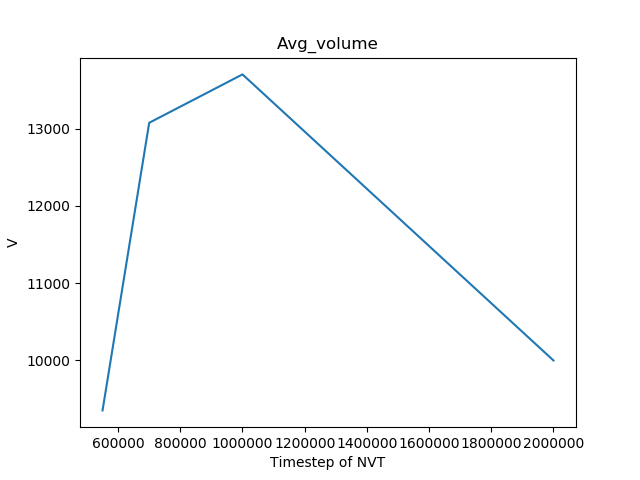
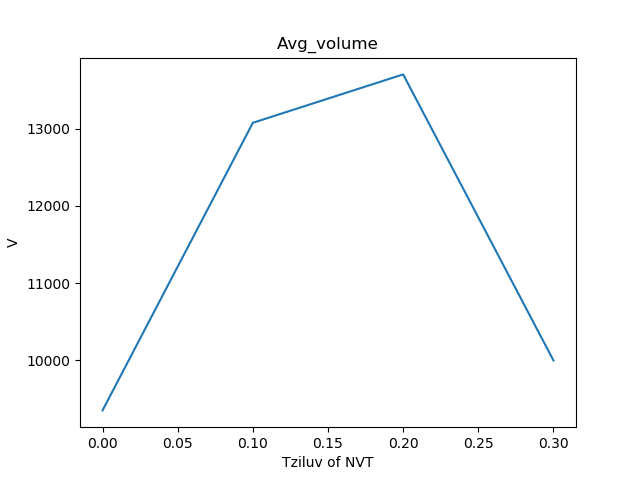
graphs by tziluv percent

diff --git a/python code/Isothermal_NPT/Isothermal.py b/python code/Isothermal_NPT/Isothermal.py
@@ -19,11 +19,15 @@ Isoth = {} # the Isothermal for each npt-file
 kB = np.array([1.38065e-23], dtype=np.longfloat) # Boltzman constant
 kB = kB[0] 
 avg_volums = []
+tziluv_percent = []
+tziluv = -0.1
 for file_name in glob.glob("Npt_Files\*.txt"): # reading all the npt - files
 	nvtTimestep = int(re.findall(r'\d+',file_name)[0])
 	file = open(file_name, 'r')
 	npt_lines = file.read().split('\n')
 	npt_lines = npt_lines[9555:10056] # last 50K timestep when the volume ha stabilized
+	tziluv = tziluv + 0.1
+	tziluv_percent.append(tziluv)
 	volumes = []
 	for line in npt_lines:
 		res = line.split()
@@ -41,24 +45,24 @@ print(od)
 axis_x = []
 axis_y = []
 print(len(avg_volums))
-for (time, v) in zip(list(od.keys()), avg_volums):
-	axis_x.append(time)
+for (t, v) in zip(tziluv_percent, avg_volums):
+	axis_x.append(t)
 	axis_y.append(v)
 plt.clf()
 plt.plot(axis_x,axis_y)
-plt.xlabel("Timestep of NVT")
+plt.xlabel("Tziluv of NVT")
 plt.ylabel("V")
 plt.title("Avg_volume")
 plt.savefig("Avg_volume.png")
 plt.show()
 axis_x = []
 axis_y = []
-for k, v in od.items():
-	axis_x.append(k)
+for (t, (k, v)) in zip(tziluv_percent, od.items()):
+	axis_x.append(t)
 	axis_y.append(v)
 plt.clf()
 plt.plot(axis_x,axis_y)
-plt.xlabel("Timestep of NVT")
+plt.xlabel("Tziluv of NVT")
 plt.ylabel("Bt")
 plt.title("Isothermal Compression")
 plt.savefig("Isothermal Compression.png")
